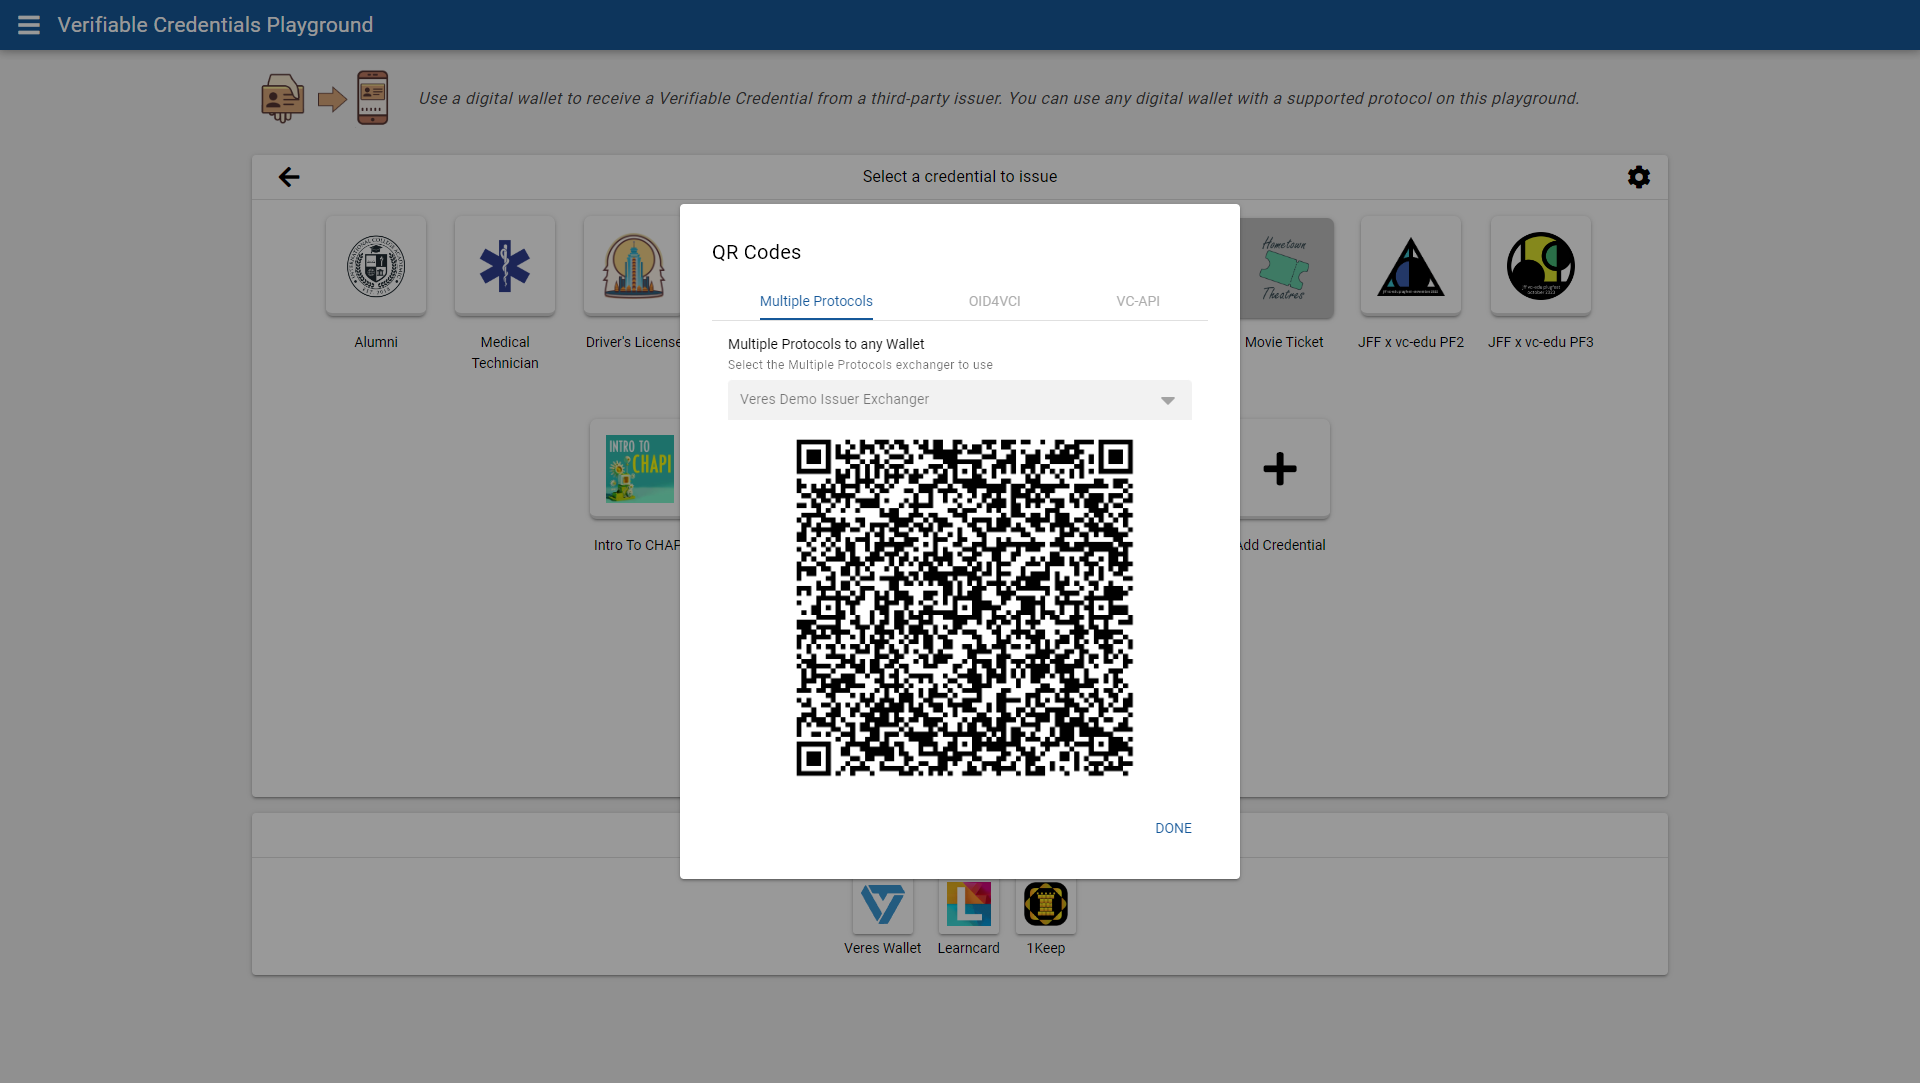
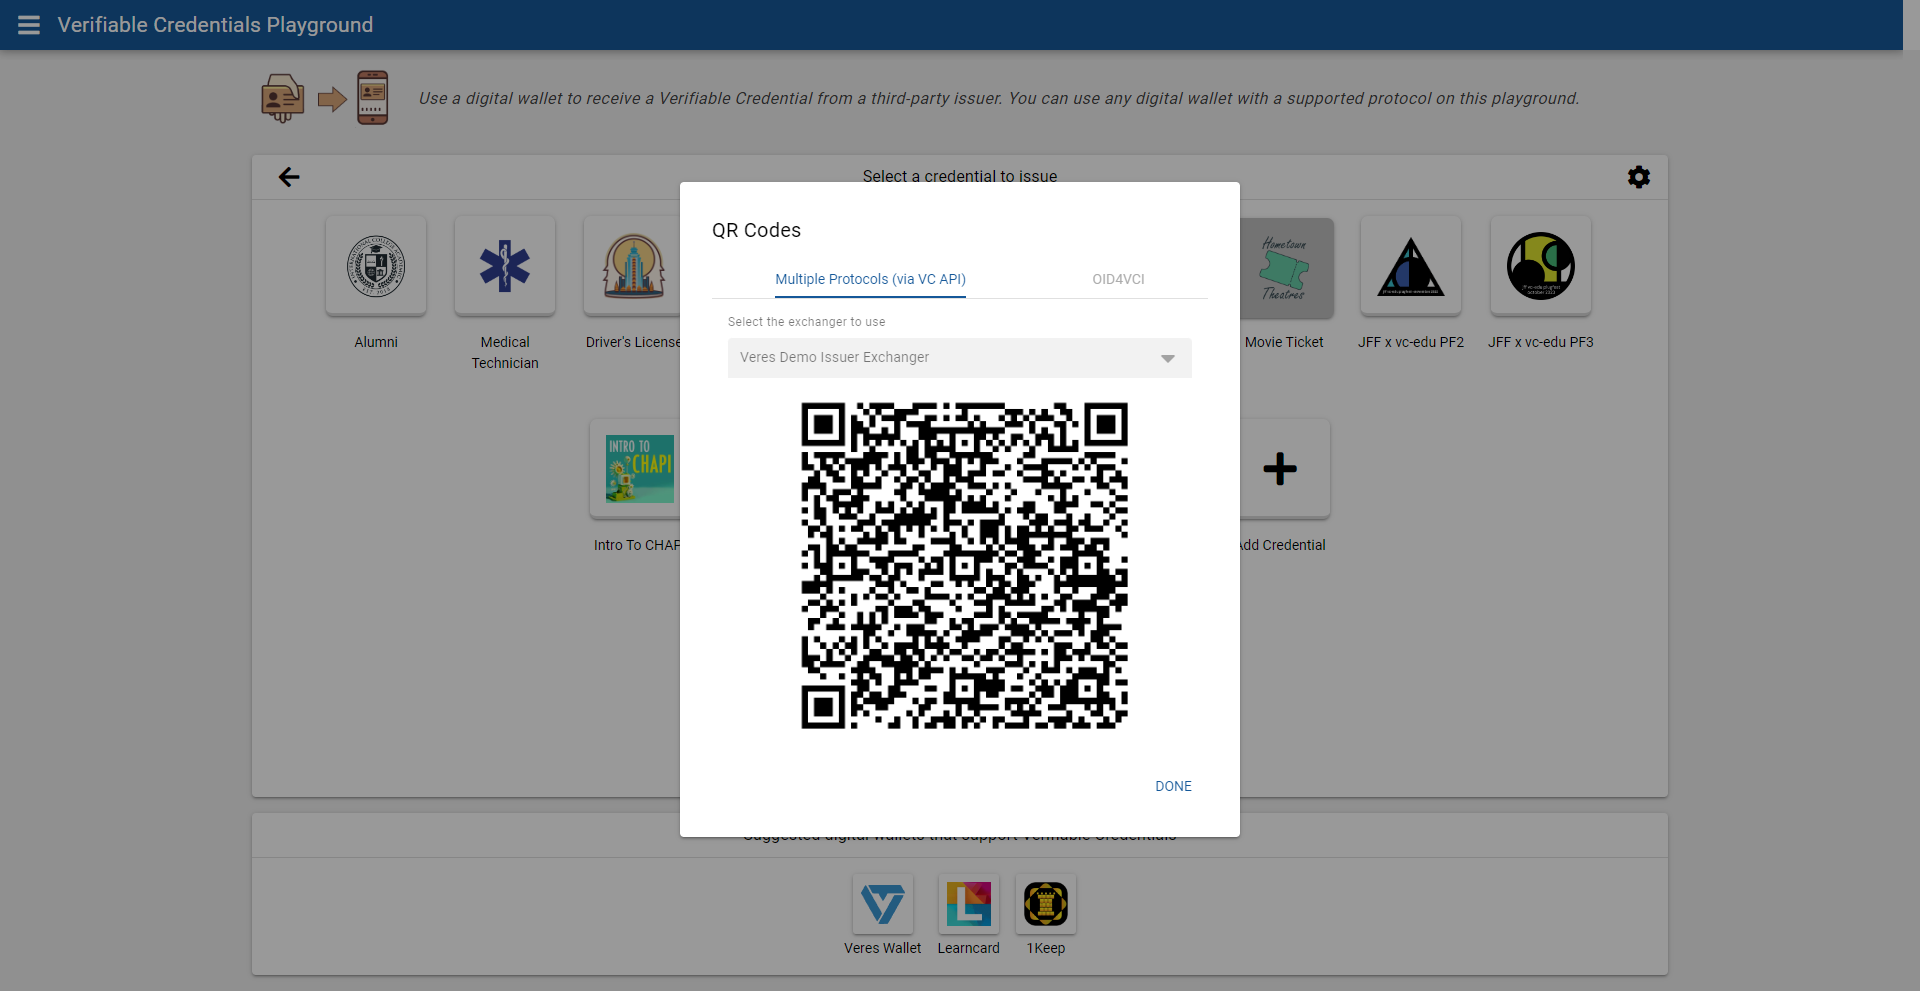
Update QR code modal image; update related text.

diff --git a/playground/issue.md b/playground/issue.md
@@ -75,8 +75,9 @@ Press the "Generate a QR Code" button to show the QR code options dialog:
 Each QR code will provide a single URL. However, these URLs are meant to be used
 from within a Wallet and not meant to be loaded in a browser.
 
-The *Multiple Protocols* option provides an interaction URL that will provide a
-`protocols` object allowing for the selection from the available protocols:
+The *Multiple Protocols (via VC API)* option provides an interaction URL that
+will provide a `protocols` object allowing for the selection from the available
+protocols:
 
 ```
 https://vcplayground.org/interactions/https%3A%2F%2Fqa.veresexchanger.dev%2Fexchangers%2Fz1A68iKqcX2HbQGQfVSfFnjkM%2Fexchanges%2Fz19jzvwdcS5fuNyyE7R5t5peH
@@ -119,22 +120,15 @@ const json = await rv.json();
 The Wallet should select the value of the protocol it prefers and continue the
 transaction via that protocol.
 
-Alternatively, each of the other QR codes will result in URL only values
-identical to the ones seen in the above JSON.
+Checkout [Handling a VC API Exchange](/chapi/wallets/exchanges/) for further
+information on completing an exchange.
 
-The OID4VC QR code will provide a URL with the `openid-credential-offer://`
-scheme:
+Alternatively, the OID4VCI QR code will provide a URL with the
+`openid-credential-offer://` scheme:
 
 ```
 openid-credential-offer://?credential_offer_uri=https%3A%2F%2Fqa.veresexchanger.dev%2Fexchangers%2Fz1A68iKqcX2HbQGQfVSfFnjkM%2Fexchanges%2Fz19jzvwdcS5fuNyyE7R5t5peH%2Fopenid%2Fcredential-offer
 ```
 
-The VC API QR code will provide an HTTPS Exchange URL which can be used
-following the
-[VC API Workflows & Exchanges specification](https://w3c-ccg.github.io/vc-api/#workflows-and-exchanges).
-
-```
-https://qa.veresexchanger.dev/exchangers/z1A68iKqcX2HbQGQfVSfFnjkM/exchanges/z19jzvwdcS5fuNyyE7R5t5peH
-```
-
-Checkout [Handling a VC API Exchange](/chapi/wallets/exchanges/) for more info.
+Read [Sending Credential Offer by Reference Using `credential_offer_uri` Parameter](https://openid.net/specs/openid-4-verifiable-credential-issuance-1_0.html#name-sending-credential-offer-by-) in the OID4VCI specification for further
+details.
